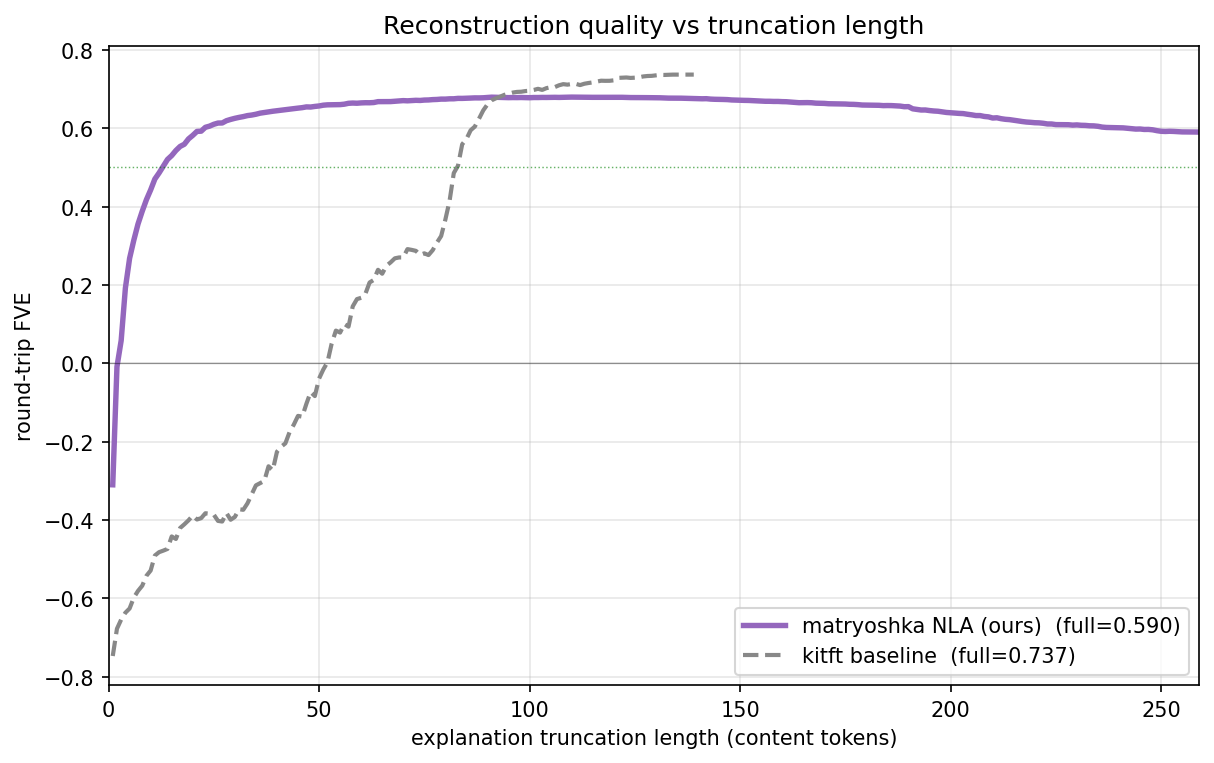
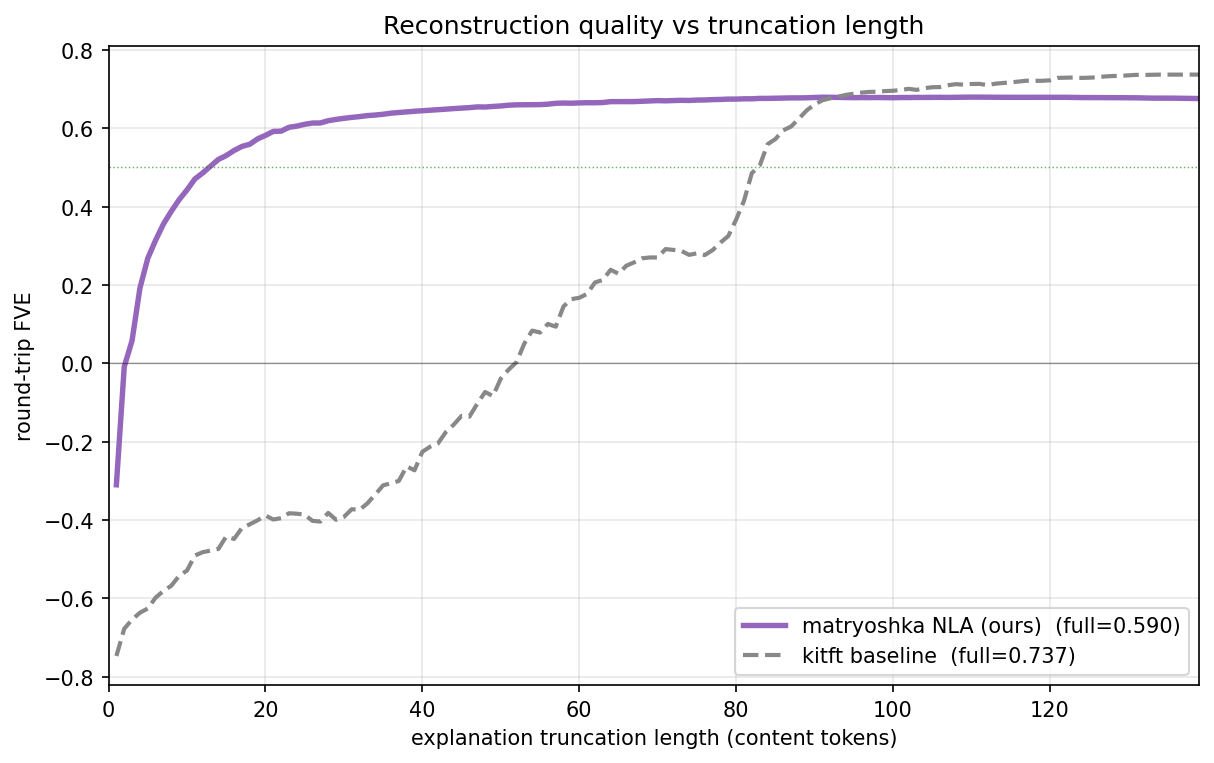
📊 fig1a: x-axis capped to the kitft curve's extent
Claude-Session: https://claude.ai/code/session_013QpD8gUKVwdg5FeGc2gDm2

diff --git a/experiments/qwen2.5-matryoshka-warmstart-sonnet46/post_figs/plot_post_figs.py b/experiments/qwen2.5-matryoshka-warmstart-sonnet46/post_figs/plot_post_figs.py
@@ -48,7 +48,7 @@ if tL is not None and kL is not None:
     a1.plot(kLf, kFf, color=C_BASE, lw=2.0, ls="--", label=f"{BASE}  (full={kFfull[-1]:.3f})")
     a1.axhline(0, color="k", lw=.6, alpha=.4); a1.axhline(0.5, color="green", lw=.7, ls=":", alpha=.6)
     a1.set_xlabel("explanation truncation length (content tokens)")
-    a1.set_ylabel("round-trip FVE"); a1.set_xlim(0, max(tLf.max(), kLf.max()))
+    a1.set_ylabel("round-trip FVE"); a1.set_xlim(0, kLf.max())  # x exactly spans the kitft curve
     a1.set_title("Reconstruction quality vs truncation length")
     a1.grid(alpha=.3); a1.legend(loc="lower right", fontsize=10)
     fig.tight_layout(); fig.savefig(f"{HERE}/fig1a_fve_truncation.png", dpi=150, bbox_inches="tight")
